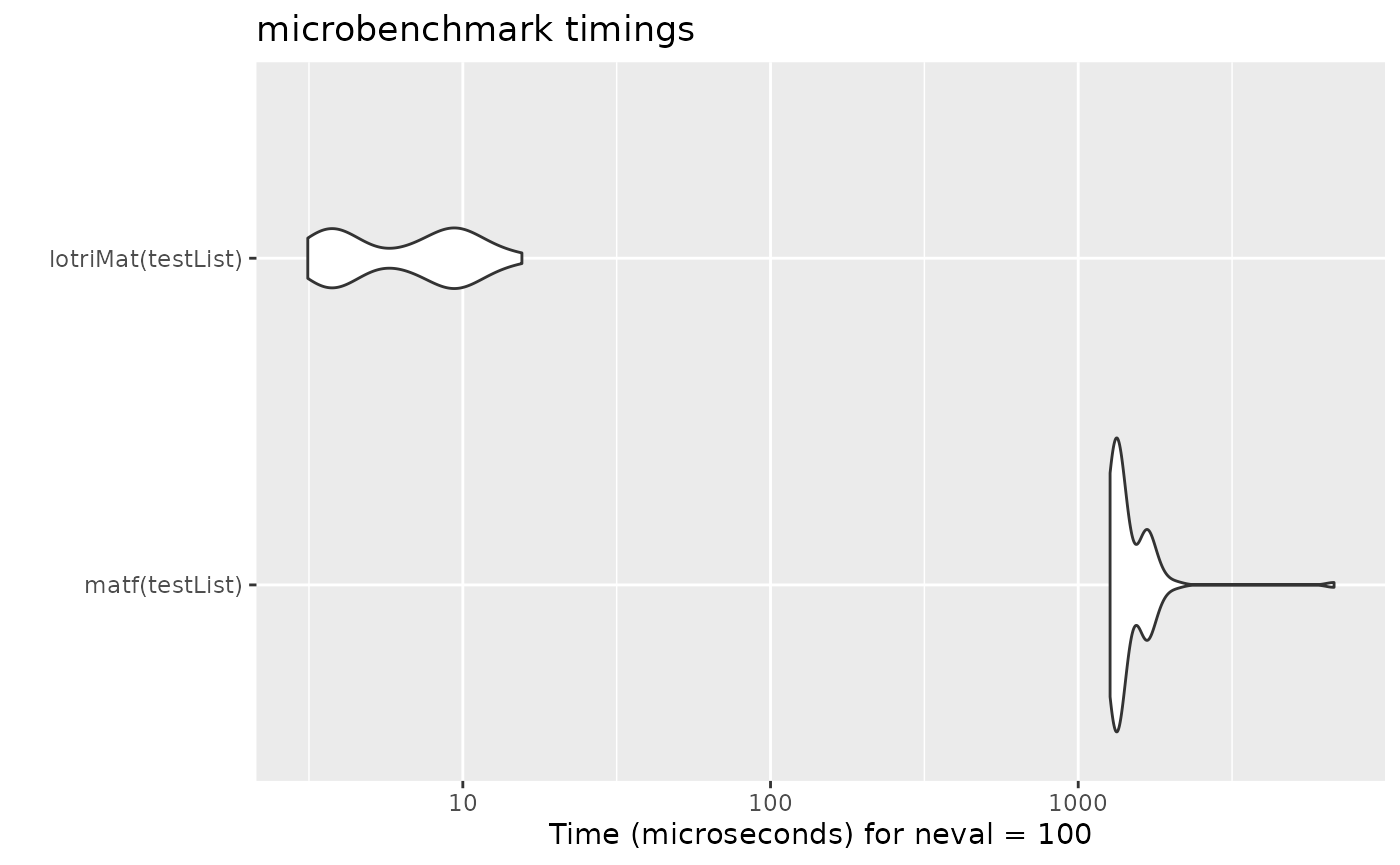
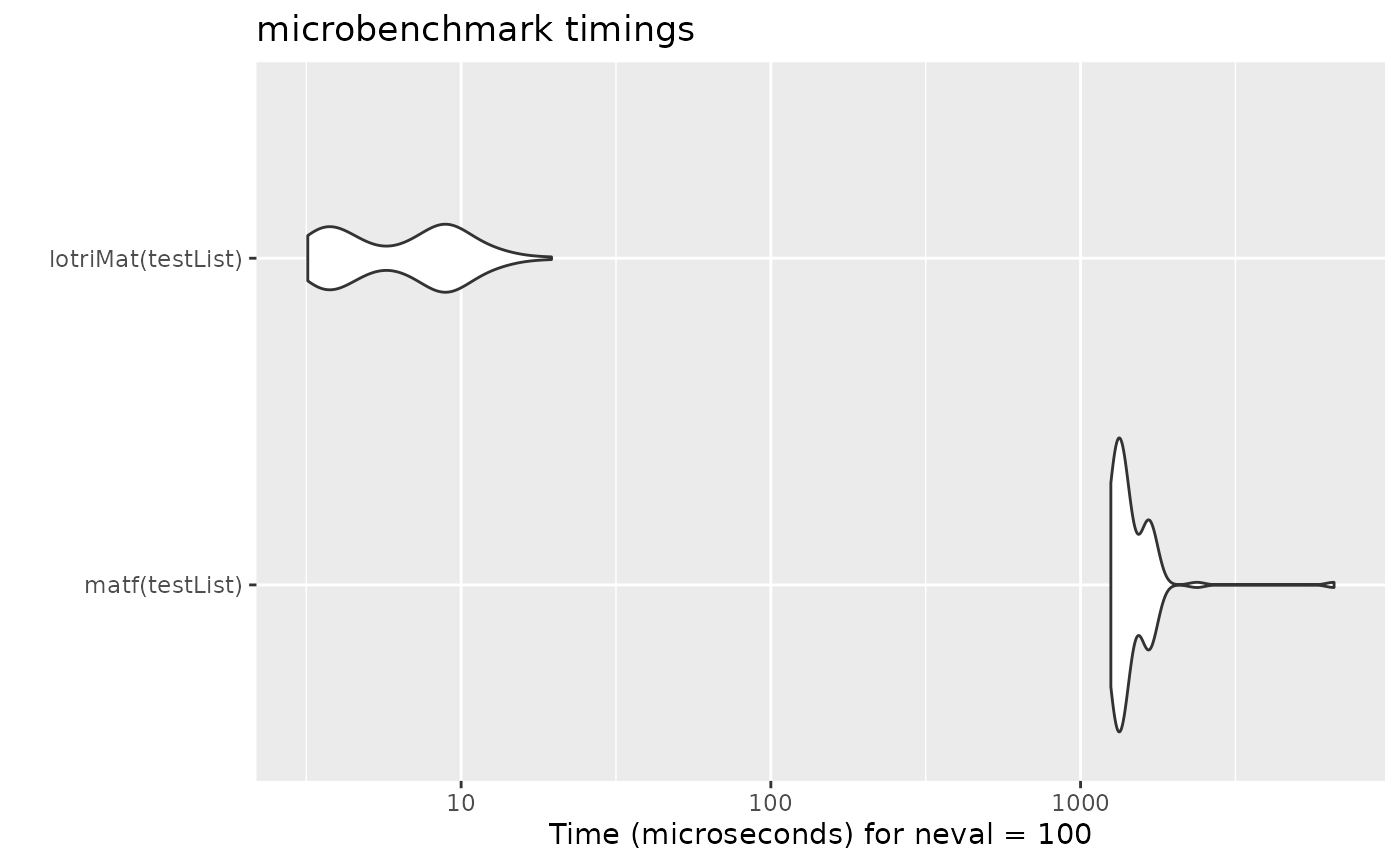
Deploying to gh-pages from @ nlmixr2/lotri@4afe283401e8b985f79f504618df83bab68242e2 🚀

diff --git a/reference/dot-lotriPointers.html b/reference/dot-lotriPointers.html
@@ -32,7 +32,7 @@
 <div class="row">
   <main id="main" class="col-md-9"><div class="page-header">
       <img src="../logo.png" class="logo" alt=""><h1>This function is used to get the pointers to the C objects that are used in the lotri package.</h1>
-      <small class="dont-index">Source: <a href="https://github.com/nlmixr2/lotri/blob/main/R/lotriPtrs.R" class="external-link"><code>R/lotriPtrs.R</code></a></small>
+      <small class="dont-index">Source: <a href="https://github.com/nlmixr2/lotri/blob/v1.0.3/R/lotriPtrs.R" class="external-link"><code>R/lotriPtrs.R</code></a></small>
       <div class="d-none name"><code>dot-lotriPointers.Rd</code></div>
     </div>
 
@@ -59,34 +59,34 @@
     <div class="sourceCode"><pre class="sourceCode r"><code><span class="r-in"><span></span></span>
 <span class="r-in"><span><span class="fu">.lotriPointers</span><span class="op">(</span><span class="op">)</span></span></span>
 <span class="r-out co"><span class="r-pr">#&gt;</span> $lotriLstToMat</span>
-<span class="r-out co"><span class="r-pr">#&gt;</span> &lt;pointer: 0x7fde9acef140&gt;</span>
+<span class="r-out co"><span class="r-pr">#&gt;</span> &lt;pointer: 0x7f30d5539140&gt;</span>
 <span class="r-out co"><span class="r-pr">#&gt;</span> </span>
 <span class="r-out co"><span class="r-pr">#&gt;</span> $asLotriMat</span>
-<span class="r-out co"><span class="r-pr">#&gt;</span> &lt;pointer: 0x7fde9aced2e0&gt;</span>
+<span class="r-out co"><span class="r-pr">#&gt;</span> &lt;pointer: 0x7f30d55372e0&gt;</span>
 <span class="r-out co"><span class="r-pr">#&gt;</span> </span>
 <span class="r-out co"><span class="r-pr">#&gt;</span> $lotriSep</span>
-<span class="r-out co"><span class="r-pr">#&gt;</span> &lt;pointer: 0x7fde9acf0e30&gt;</span>
+<span class="r-out co"><span class="r-pr">#&gt;</span> &lt;pointer: 0x7f30d553ae30&gt;</span>
 <span class="r-out co"><span class="r-pr">#&gt;</span> </span>
 <span class="r-out co"><span class="r-pr">#&gt;</span> $lotriAllNames</span>
-<span class="r-out co"><span class="r-pr">#&gt;</span> &lt;pointer: 0x7fde9acf13d0&gt;</span>
+<span class="r-out co"><span class="r-pr">#&gt;</span> &lt;pointer: 0x7f30d553b3d0&gt;</span>
 <span class="r-out co"><span class="r-pr">#&gt;</span> </span>
 <span class="r-out co"><span class="r-pr">#&gt;</span> $lotriGetBounds</span>
-<span class="r-out co"><span class="r-pr">#&gt;</span> &lt;pointer: 0x7fde9aced880&gt;</span>
+<span class="r-out co"><span class="r-pr">#&gt;</span> &lt;pointer: 0x7f30d5537880&gt;</span>
 <span class="r-out co"><span class="r-pr">#&gt;</span> </span>
 <span class="r-out co"><span class="r-pr">#&gt;</span> $lotriMaxNu</span>
-<span class="r-out co"><span class="r-pr">#&gt;</span> &lt;pointer: 0x7fde9acf08c0&gt;</span>
+<span class="r-out co"><span class="r-pr">#&gt;</span> &lt;pointer: 0x7f30d553a8c0&gt;</span>
 <span class="r-out co"><span class="r-pr">#&gt;</span> </span>
 <span class="r-out co"><span class="r-pr">#&gt;</span> $isLotri</span>
-<span class="r-out co"><span class="r-pr">#&gt;</span> &lt;pointer: 0x7fde9acf12b0&gt;</span>
+<span class="r-out co"><span class="r-pr">#&gt;</span> &lt;pointer: 0x7f30d553b2b0&gt;</span>
 <span class="r-out co"><span class="r-pr">#&gt;</span> </span>
 <span class="r-out co"><span class="r-pr">#&gt;</span> $lotriRcm</span>
-<span class="r-out co"><span class="r-pr">#&gt;</span> &lt;pointer: 0x7fde9acfb7b0&gt;</span>
+<span class="r-out co"><span class="r-pr">#&gt;</span> &lt;pointer: 0x7f30d55457b0&gt;</span>
 <span class="r-out co"><span class="r-pr">#&gt;</span> </span>
 <span class="r-out co"><span class="r-pr">#&gt;</span> $lotriNearPDc</span>
-<span class="r-out co"><span class="r-pr">#&gt;</span> &lt;pointer: 0x7fde9acf6a90&gt;</span>
+<span class="r-out co"><span class="r-pr">#&gt;</span> &lt;pointer: 0x7f30d5540a90&gt;</span>
 <span class="r-out co"><span class="r-pr">#&gt;</span> </span>
 <span class="r-out co"><span class="r-pr">#&gt;</span> $lotriNearPDsexp</span>
-<span class="r-out co"><span class="r-pr">#&gt;</span> &lt;pointer: 0x7fde9acf6fd0&gt;</span>
+<span class="r-out co"><span class="r-pr">#&gt;</span> &lt;pointer: 0x7f30d5540fd0&gt;</span>
 <span class="r-out co"><span class="r-pr">#&gt;</span> </span>
 </code></pre></div>
     </div>

diff --git a/articles/lotri-motivation.html b/articles/lotri-motivation.html
@@ -66,7 +66,7 @@ Fidler</h4>
             
             <h4 data-toc-skip class="date">2026-03-11</h4>
       
-      <small class="dont-index">Source: <a href="https://github.com/nlmixr2/lotri/blob/main/vignettes/lotri-motivation.Rmd" class="external-link"><code>vignettes/lotri-motivation.Rmd</code></a></small>
+      <small class="dont-index">Source: <a href="https://github.com/nlmixr2/lotri/blob/v1.0.3/vignettes/lotri-motivation.Rmd" class="external-link"><code>vignettes/lotri-motivation.Rmd</code></a></small>
       <div class="d-none name"><code>lotri-motivation.Rmd</code></div>
     </div>
 
@@ -227,9 +227,9 @@ concatenation with <code>lotriMat</code></p>
 <span></span>
 <span><span class="fu"><a href="https://rdrr.io/r/base/print.html" class="external-link">print</a></span><span class="op">(</span><span class="va">mb</span><span class="op">)</span></span>
 <span><span class="co">#&gt; Unit: microseconds</span></span>
-<span><span class="co">#&gt;                expr      min        lq       mean    median        uq      max</span></span>
-<span><span class="co">#&gt;      matf(testList) 1269.165 1313.8300 1497.76488 1361.5925 1634.9030 6783.941</span></span>
-<span><span class="co">#&gt;  lotriMat(testList)    3.134    3.8305    7.06538    7.0775    9.4845   15.561</span></span>
+<span><span class="co">#&gt;                expr      min       lq       mean   median        uq      max</span></span>
+<span><span class="co">#&gt;      matf(testList) 1252.593 1310.472 1489.10890 1372.138 1627.7335 6584.355</span></span>
+<span><span class="co">#&gt;  lotriMat(testList)    3.198    3.793    6.95702    6.718    9.0455   19.582</span></span>
 <span><span class="co">#&gt;  neval</span></span>
 <span><span class="co">#&gt;    100</span></span>
 <span><span class="co">#&gt;    100</span></span>

diff --git a/news/index.html b/news/index.html
@@ -32,11 +32,11 @@
 <div class="row">
   <main id="main" class="col-md-9"><div class="page-header">
       <img src="../logo.png" class="logo" alt=""><h1>Changelog</h1>
-      <small>Source: <a href="https://github.com/nlmixr2/lotri/blob/main/NEWS.md" class="external-link"><code>NEWS.md</code></a></small>
+      <small>Source: <a href="https://github.com/nlmixr2/lotri/blob/v1.0.3/NEWS.md" class="external-link"><code>NEWS.md</code></a></small>
     </div>
 
     <div class="section level2">
-<h2 class="pkg-version" data-toc-text="1.0.3" id="lotri-103">lotri 1.0.3<a class="anchor" aria-label="anchor" href="#lotri-103"></a></h2>
+<h2 class="pkg-version" data-toc-text="1.0.3" id="lotri-103">lotri 1.0.3<a class="anchor" aria-label="anchor" href="#lotri-103"></a></h2><p class="text-muted">CRAN release: 2026-03-11</p>
 <ul><li>Lotri shifted to using <code>cpp4r</code> and <code>armadillo4r</code> (issue <a href="https://github.com/nlmixr2/lotri/issues/41" class="external-link">#41</a>)</li>
 </ul></div>
     <div class="section level2">

diff --git a/reference/lotriSep.html b/reference/lotriSep.html
@@ -34,7 +34,7 @@ not be useful for external function calls."><meta property="og:image" content="h
 <div class="row">
   <main id="main" class="col-md-9"><div class="page-header">
       <img src="../logo.png" class="logo" alt=""><h1>Separate a lotri matrix into above and below lotri matrices</h1>
-      <small class="dont-index">Source: <a href="https://github.com/nlmixr2/lotri/blob/main/R/lotri.R" class="external-link"><code>R/lotri.R</code></a></small>
+      <small class="dont-index">Source: <a href="https://github.com/nlmixr2/lotri/blob/v1.0.3/R/lotri.R" class="external-link"><code>R/lotri.R</code></a></small>
       <div class="d-none name"><code>lotriSep.Rd</code></div>
     </div>
 

diff --git a/reference/lotriMat.html b/reference/lotriMat.html
@@ -34,7 +34,7 @@ symmetric matrices."><meta property="og:image" content="https://nlmixr2.github.i
 <div class="row">
   <main id="main" class="col-md-9"><div class="page-header">
       <img src="../logo.png" class="logo" alt=""><h1>Create a matrix from a list of matrices</h1>
-      <small class="dont-index">Source: <a href="https://github.com/nlmixr2/lotri/blob/main/R/lotri.R" class="external-link"><code>R/lotri.R</code></a></small>
+      <small class="dont-index">Source: <a href="https://github.com/nlmixr2/lotri/blob/v1.0.3/R/lotri.R" class="external-link"><code>R/lotri.R</code></a></small>
       <div class="d-none name"><code>lotriMat.Rd</code></div>
     </div>
 

diff --git a/reference/rcm.html b/reference/rcm.html
@@ -34,7 +34,7 @@ which is used to permute the matrix to a banded matrix."><meta property="og:imag
 <div class="row">
   <main id="main" class="col-md-9"><div class="page-header">
       <img src="../logo.png" class="logo" alt=""><h1>Use the RCM algorithm to permute to banded matrix</h1>
-      <small class="dont-index">Source: <a href="https://github.com/nlmixr2/lotri/blob/main/R/rcm.R" class="external-link"><code>R/rcm.R</code></a></small>
+      <small class="dont-index">Source: <a href="https://github.com/nlmixr2/lotri/blob/v1.0.3/R/rcm.R" class="external-link"><code>R/rcm.R</code></a></small>
       <div class="d-none name"><code>rcm.Rd</code></div>
     </div>
 

diff --git a/reference/lotriDataFrameToLotriExpression.html b/reference/lotriDataFrameToLotriExpression.html
@@ -32,7 +32,7 @@
 <div class="row">
   <main id="main" class="col-md-9"><div class="page-header">
       <img src="../logo.png" class="logo" alt=""><h1>Convert a lotri data frame to a lotri expression</h1>
-      <small class="dont-index">Source: <a href="https://github.com/nlmixr2/lotri/blob/main/R/as.expression.R" class="external-link"><code>R/as.expression.R</code></a></small>
+      <small class="dont-index">Source: <a href="https://github.com/nlmixr2/lotri/blob/v1.0.3/R/as.expression.R" class="external-link"><code>R/as.expression.R</code></a></small>
       <div class="d-none name"><code>lotriDataFrameToLotriExpression.Rd</code></div>
     </div>
 

diff --git a/reference/lotriAsExpression.html b/reference/lotriAsExpression.html
@@ -32,7 +32,7 @@
 <div class="row">
   <main id="main" class="col-md-9"><div class="page-header">
       <img src="../logo.png" class="logo" alt=""><h1>Change a matrix or lotri matrix to a lotri expression</h1>
-      <small class="dont-index">Source: <a href="https://github.com/nlmixr2/lotri/blob/main/R/as.expression.R" class="external-link"><code>R/as.expression.R</code></a></small>
+      <small class="dont-index">Source: <a href="https://github.com/nlmixr2/lotri/blob/v1.0.3/R/as.expression.R" class="external-link"><code>R/as.expression.R</code></a></small>
       <div class="d-none name"><code>lotriAsExpression.Rd</code></div>
     </div>
 

diff --git a/reference/lotriMatInv.html b/reference/lotriMatInv.html
@@ -32,7 +32,7 @@
 <div class="row">
   <main id="main" class="col-md-9"><div class="page-header">
       <img src="../logo.png" class="logo" alt=""><h1>Converts a matrix into a list of block matrices</h1>
-      <small class="dont-index">Source: <a href="https://github.com/nlmixr2/lotri/blob/main/R/lotriMatInv.R" class="external-link"><code>R/lotriMatInv.R</code></a></small>
+      <small class="dont-index">Source: <a href="https://github.com/nlmixr2/lotri/blob/v1.0.3/R/lotriMatInv.R" class="external-link"><code>R/lotriMatInv.R</code></a></small>
       <div class="d-none name"><code>lotriMatInv.Rd</code></div>
     </div>
 

diff --git a/reference/lotriEst.html b/reference/lotriEst.html
@@ -32,7 +32,7 @@
 <div class="row">
   <main id="main" class="col-md-9"><div class="page-header">
       <img src="../logo.png" class="logo" alt=""><h1>Extract or remove lotri estimate data frame from lotri object</h1>
-      <small class="dont-index">Source: <a href="https://github.com/nlmixr2/lotri/blob/main/R/thetaEst.R" class="external-link"><code>R/thetaEst.R</code></a></small>
+      <small class="dont-index">Source: <a href="https://github.com/nlmixr2/lotri/blob/v1.0.3/R/thetaEst.R" class="external-link"><code>R/thetaEst.R</code></a></small>
       <div class="d-none name"><code>lotriEst.Rd</code></div>
     </div>
 

diff --git a/reference/lotriIsBlockMat.html b/reference/lotriIsBlockMat.html
@@ -32,7 +32,7 @@
 <div class="row">
   <main id="main" class="col-md-9"><div class="page-header">
       <img src="../logo.png" class="logo" alt=""><h1>Determine if the matrix is a block matrix</h1>
-      <small class="dont-index">Source: <a href="https://github.com/nlmixr2/lotri/blob/main/R/lotriMatInv.R" class="external-link"><code>R/lotriMatInv.R</code></a></small>
+      <small class="dont-index">Source: <a href="https://github.com/nlmixr2/lotri/blob/v1.0.3/R/lotriMatInv.R" class="external-link"><code>R/lotriMatInv.R</code></a></small>
       <div class="d-none name"><code>lotriIsBlockMat.Rd</code></div>
     </div>
 

diff --git a/reference/lotriNearPD.html b/reference/lotriNearPD.html
@@ -32,7 +32,7 @@
 <div class="row">
   <main id="main" class="col-md-9"><div class="page-header">
       <img src="../logo.png" class="logo" alt=""><h1>C++ implementation of Matrix's nearPD</h1>
-      <small class="dont-index">Source: <a href="https://github.com/nlmixr2/lotri/blob/main/R/lotriNearPD.R" class="external-link"><code>R/lotriNearPD.R</code></a></small>
+      <small class="dont-index">Source: <a href="https://github.com/nlmixr2/lotri/blob/v1.0.3/R/lotriNearPD.R" class="external-link"><code>R/lotriNearPD.R</code></a></small>
       <div class="d-none name"><code>lotriNearPD.Rd</code></div>
     </div>
 
